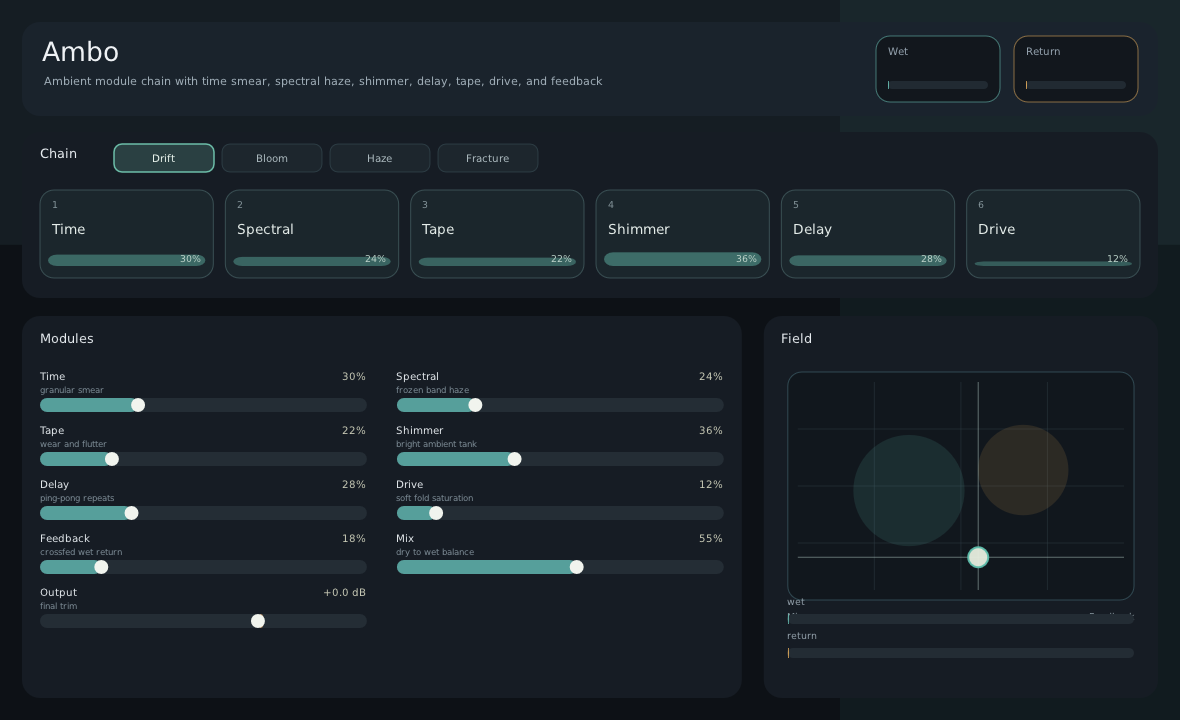
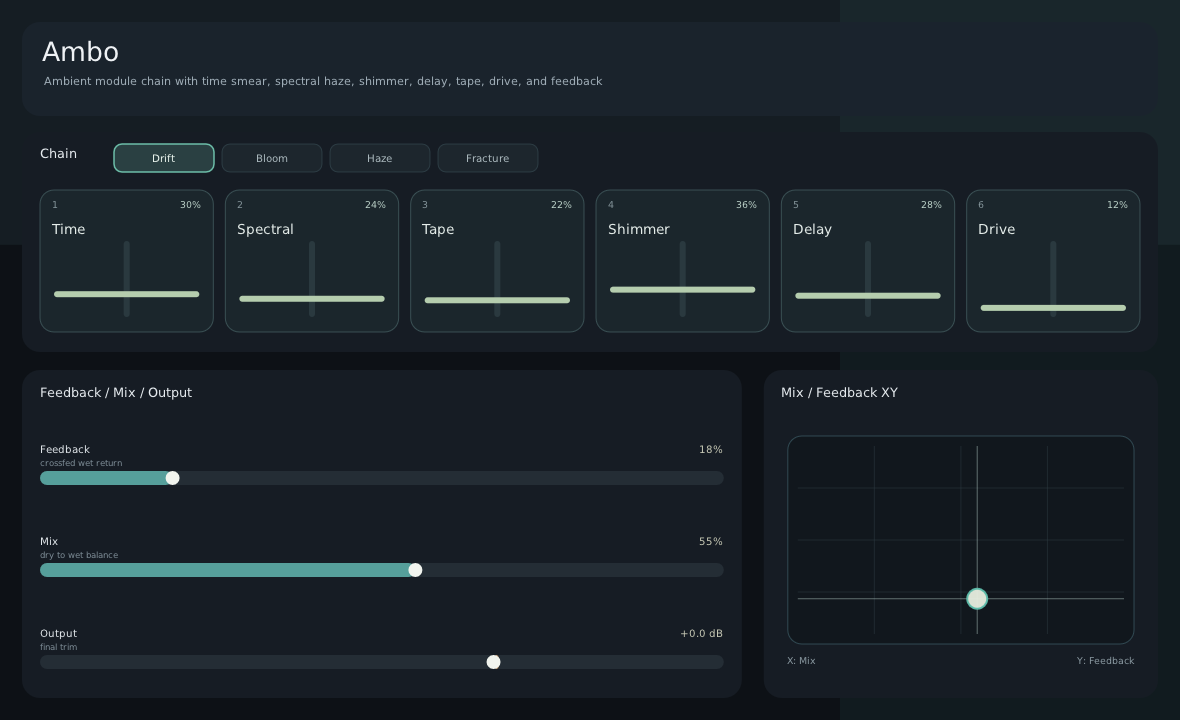
layout tweak; docs

diff --git a/plugins/ambo/src/dpf/AmboUI.cpp b/plugins/ambo/src/dpf/AmboUI.cpp
@@ -511,7 +511,7 @@ private:
             fillColor(188, 210, 201, 255);
             char buf[16];
             std::snprintf(buf, sizeof(buf), "%.0f%%", level * 100.0f);
-            text(cellX + cellW - 12.0f, laneY + cellH - 24.0f, buf, nullptr);
+            text(cellX + cellW - 12.0f, laneY + 10.0f, buf, nullptr);
         }
     }
 

diff --git a/docs/pages/_products/ambo.md b/docs/pages/_products/ambo.md
@@ -5,7 +5,7 @@ bundle: ambo.vst3
 kind: Audio effect
 role: Ambient processor
 screenshot: /assets/plugins/ambo.png
-summary: Stereo ambient effect with rearrangeable time, spectral, tape, shimmer, delay, drive, feedback, and mix controls.
+summary: Stereo ambient effect with rearrangeable time, spectral, tape, shimmer, delay, drive, and feedback stages.
 ---
 
 ## Functionality
@@ -17,6 +17,25 @@ between Drift, Bloom, Haze, and Fracture modes.
 The first version keeps the spectral and time modules portable and
 dependency-free while leaving room for a deeper spectral backend later.
 
-### Status
+## Controls
 
-This is still in the early stages of development. The effects are reasonable (the DSP is ok) but the user interface isn't very good yet.
+The six chain blocks are vertical module controls arranged in the same
+left-to-right order as the audio path. Feedback, Mix, and Output use conventional
+sliders. The labelled Mix/Feedback XY pad provides an alternate performance
+control, and Control-click restores defaults.
+
+Continuous controls are smoothed to reduce crackling during rapid movement.
+Changing the chain briefly crossfades through the dry signal to avoid a topology
+switch click, and the host's plugin-window bypass maps to Ambo's click-smoothed
+bypass parameter.
+
+## Feedback-driven revision
+
+Special thanks to [u/ChapelHeel66 on Reddit](https://www.reddit.com/user/ChapelHeel66/)
+for testing Ambo in Studio One 7 and providing detailed usability and audio
+feedback.
+
+That feedback led to the chain blocks becoming the module controls, larger and
+reachable endpoint hit areas, Control-click reset, clearer XY labelling, removal
+of misleading duplicate wet/return displays, corrected activity semantics,
+parameter smoothing, click-safe chain changes, and host bypass support.
